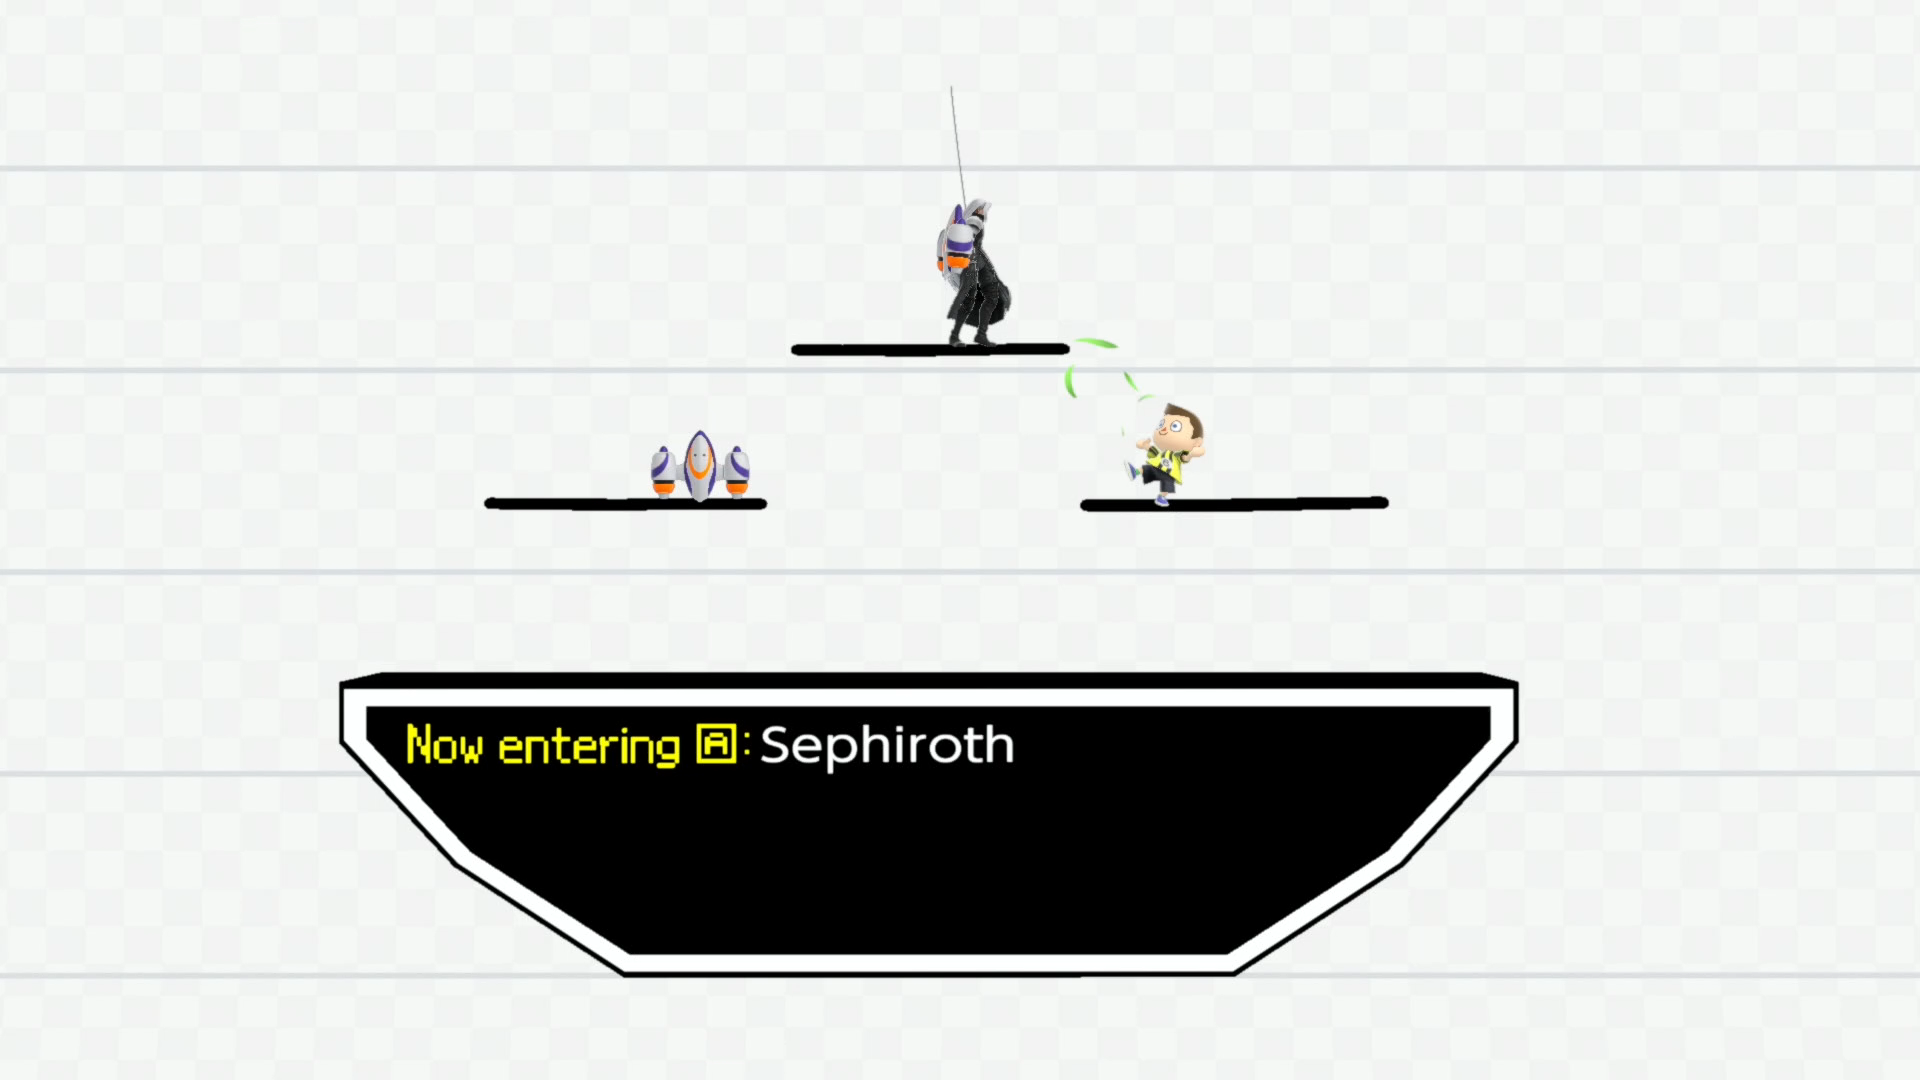
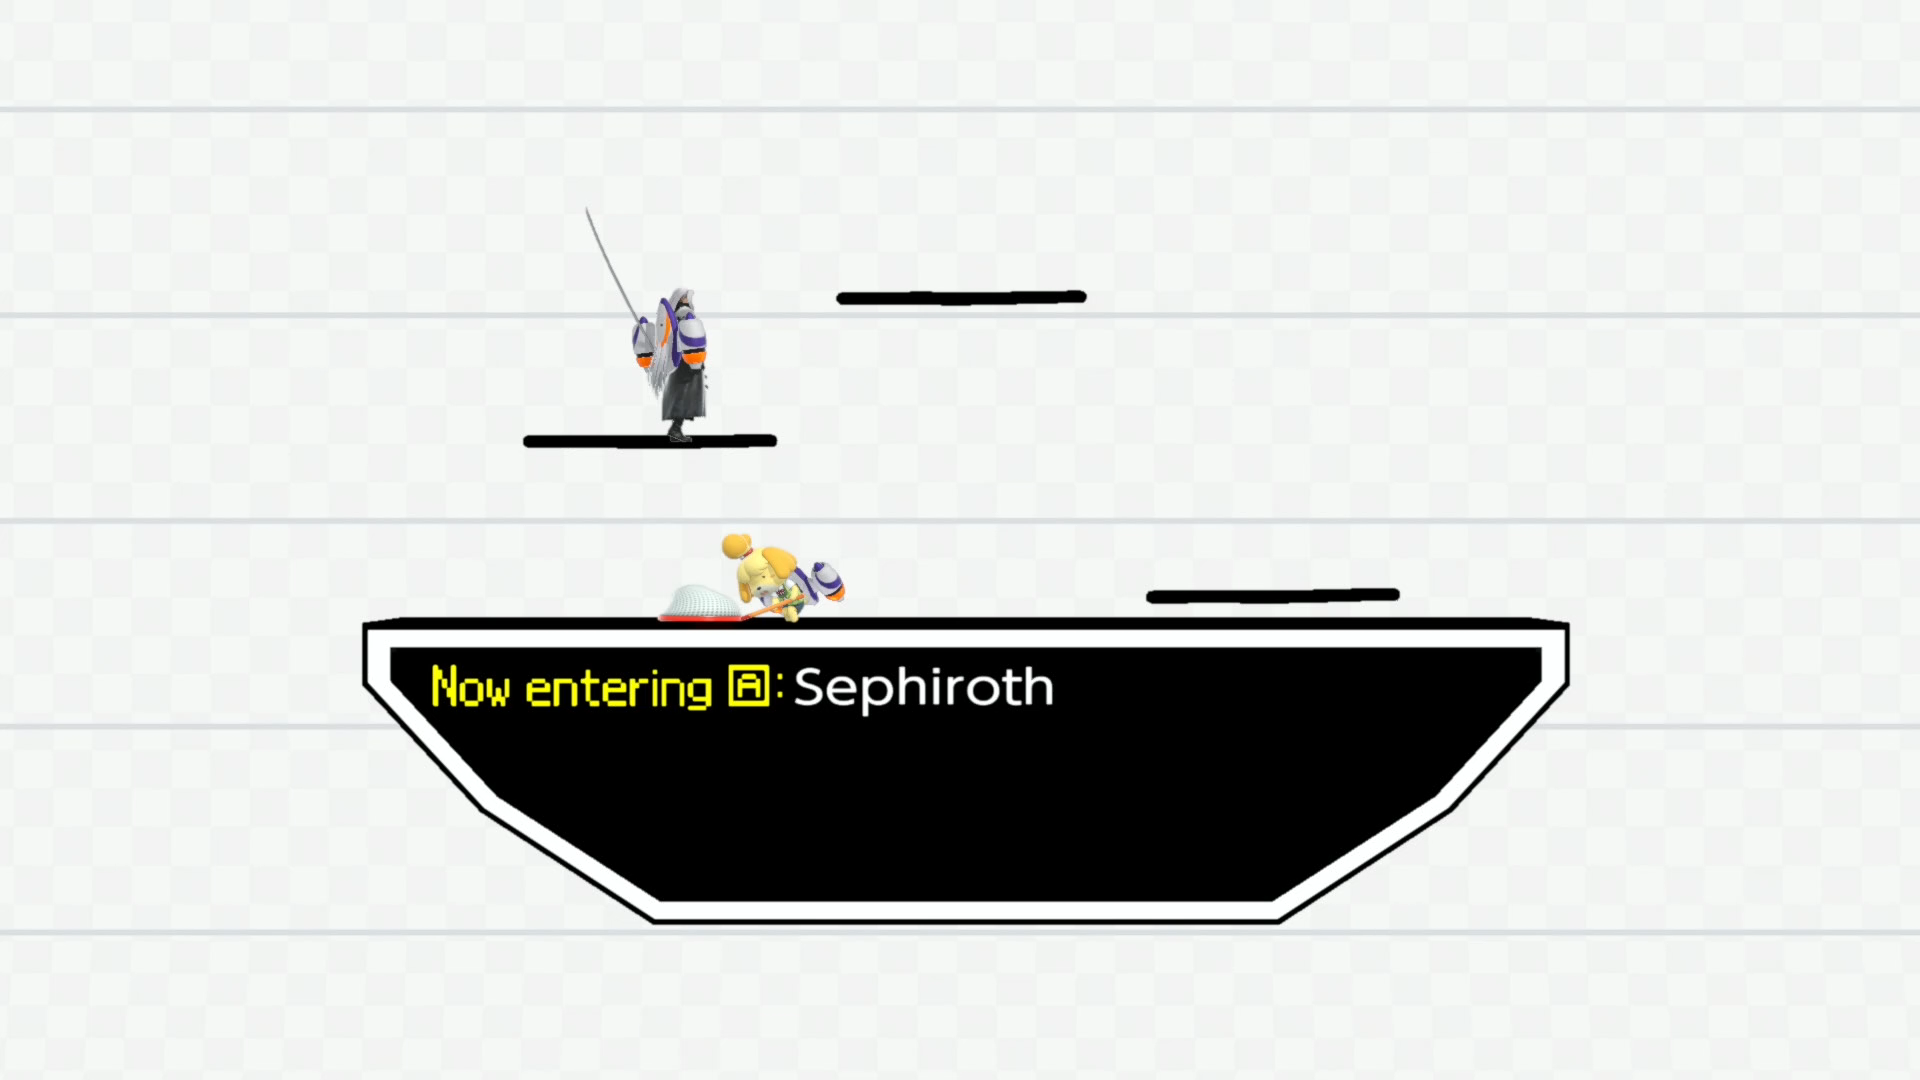
pictoinfo

diff --git a/pictochat.md b/pictochat.md
@@ -16,53 +16,67 @@ For the brave souls attempting to mod this stage: improper edits of numshb and n
 - I recommend not removing meshes, but instead either grey them out (use an HSV of 0,0,0.259993 for vertex colors) and put them somewhat behind the stage (z of -35) to still show that a current scene is active
 
 ### Stencil Animation
-It seems that uvSet controls when a vertex gets drawn in. The motion file simply uses Vector31's X coordinate to create the drawing effect. There is also an erasing animation, probably leave the material part of these motion files alone if possible? Not sure how to extend the duration of these animations.
+It seems that some combination of map1 and uvSet controls when a vertex gets drawn in. The motion file uses Vector31's X coordinate to create the drawing effect44. There is also an erasing animation, probably leave the material part of these motion files alone if possible? Not sure how to extend the duration of these animations.
 
-For uvSet, the further the UV coordinate is to the right, the later it gets drawn. Most vertices are to the right of the center.
+For map1, the further the UV coordinate is to the right, the later it gets drawn.
 
 
 ### Scene Control
 erase_wait controls when the scene ends<br/>
-Draw 1st wait SHOULD be for the first scene to start, but also controls every other scene start?!? <br/>
-Not sure what draw wait does...apparently nothing? Hmmmm...
+Draw 1st is the wait range for the first rotation <br/>
+The last draw is the wait range after the first cycle finishes. By cycle, I mean 20 scenes have been played, it resets. Ya it's...kinda weird...
 
 Stage scenes are in the order they appear in internal files. SNA: Should not attempt, probably make it another FD.
+
+### TODO:
+- [ ] SFX
+- [ ] UI
+- [ ] Disable Stars
+- [ ] Disable Flashlight?
+- [ ] Randall over Gusty Gus
+- [ ] Car Scene
+- [ ] Sparks Scene
+- [ ] Pipes
+- [ ] Figure out Sunset Collision
+- [ ] Staring Contest?
+- [ ] Disable Clock
+- [ ] Disable Pac Attack
 
 | # | Original | Notes | Change | New |
 | :-: |:---:|:----:|:---:|:---:|
 |1 | ![Noses](https://ssb.wiki.gallery/images/thumb/e/e4/Pictochat_2_Jellyfish.jpeg/175px-Pictochat_2_Jellyfish.jpeg)| `0x1ae8d0ec87` refers to their wander range | Platforms that move up and down and wander around | |
-|2 | ![Car](https://ssb.wiki.gallery/images/thumb/8/8b/PictoChat_2_Car.jpg/175px-PictoChat_2_Car.jpg)| Rigged hitbox, road shares model. `0x0e97f09501` could refer to spawns, `0x185e7df818` to something? | | |
-|3 | ![25M](https://ssb.wiki.gallery/images/thumb/6/6e/Pictochat_2_Donkey_Kong.jpeg/175px-Pictochat_2_Donkey_Kong.jpeg)| `0x22dfd9ae4b` could be barrel spawn time,  `0x134ab3b224` cam pos | (Sorry TNN, this gotta go) Warioware! | |
-|4 | ![Pac is Back](https://ssb.wiki.gallery/images/thumb/f/f6/Pictochat_2_PacPix.jpg/175px-Pictochat_2_PacPix.jpg)| `0x141ed28149` the speed of pac1 , `0x1422dfbe10` speed of other pacs  | The pac is (in the) baaaaaaack | |
+|2 | ![Car](https://ssb.wiki.gallery/images/thumb/8/8b/PictoChat_2_Car.jpg/175px-PictoChat_2_Car.jpg)| `0x0e97f09501` could refer to spawns, `0x185e7df818` to something? | | |
+|3 | ![25M](https://ssb.wiki.gallery/images/thumb/6/6e/Pictochat_2_Donkey_Kong.jpeg/175px-Pictochat_2_Donkey_Kong.jpeg)| `0x22dfd9ae4b` could be barrel spawn time,  `0x134ab3b224` cam pos | (Sorry TNN, this gotta go) Warioware! | <img src="assets/img/pictochat/dk.png" alt="newdk" width="175"/> |
+|4 | ![Pac is Back](https://ssb.wiki.gallery/images/thumb/f/f6/Pictochat_2_PacPix.jpg/175px-Pictochat_2_PacPix.jpg)| `0x141ed28149` the speed of pac1 , `0x1422dfbe10` speed of other pacs. 0x17329e7064 onward deal with pac coordinates. 0x170ffe59d4 is x 0x141ed28149 is y  | Hardcoded collision, cant do anything with this| |
 |5 | ![PaperPlanes](https://ssb.wiki.gallery/images/thumb/1/1f/PictoChat_2_Paper_Airplanes.jpeg/175px-PictoChat_2_Paper_Airplanes.jpeg)| Plane spawn order is randomized| Fountain of Dreams (except middle platform also rises) | <img src="assets/img/pictochat/plane.png" alt="newlift" width="175"/> |
 | | | | |
 | | | | |
 |6 | ![1-2](https://ssb.wiki.gallery/images/thumb/e/ed/PictoChat_2_Girders.jpeg/175px-PictoChat_2_Girders.jpeg)| | Remove center box because of Cave of Life | <img src="assets/img/pictochat/lift.png" alt="newlift" width="175"/> |
 |7 | ![Boots](https://ssb.wiki.gallery/images/thumb/0/06/PictoChat_2_Boots.jpeg/175px-PictoChat_2_Boots.jpeg)| Rigged hitbox and burybox. Motion handled internally? | hitboxes removed, not sure what to do with this | |
-|8 | ![Poles](https://ssb.wiki.gallery/images/thumb/1/14/PictoChat_2_Poles.jpeg/175px-PictoChat_2_Poles.jpeg)| | Remain the same |![NewPoles](https://ssb.wiki.gallery/images/thumb/1/14/PictoChat_2_Poles.jpeg/175px-PictoChat_2_Poles.jpeg) |
-|9 | ![Cloud](https://ssb.wiki.gallery/images/thumb/6/69/PictoChat_2_Clouds.jpeg/175px-PictoChat_2_Clouds.jpeg)| `0x1880339f33-0x18c216984e` cloud speed? | If we can move the cloud position that'd be nice | |
+|8 | ![Poles](https://ssb.wiki.gallery/images/thumb/1/14/PictoChat_2_Poles.jpeg/175px-PictoChat_2_Poles.jpeg)| `0x1b54f707a7 / 0x1a00b4c840` frame plats descend | Remain the same |![NewPoles](https://ssb.wiki.gallery/images/thumb/1/14/PictoChat_2_Poles.jpeg/175px-PictoChat_2_Poles.jpeg) |
+|9 | ![Cloud](https://ssb.wiki.gallery/images/thumb/6/69/PictoChat_2_Clouds.jpeg/175px-PictoChat_2_Clouds.jpeg)| `0x1880339f33-0x18c216984e` cloud speed | If we can move the cloud position that'd be nice | |
 |10 | ![Seesaw](https://ssb.wiki.gallery/images/thumb/2/20/PictoChat_2_Seesaw.jpeg/175px-PictoChat_2_Seesaw.jpeg)| | Lowkey keep the same | ![NewSeesaw](https://ssb.wiki.gallery/images/thumb/2/20/PictoChat_2_Seesaw.jpeg/175px-PictoChat_2_Seesaw.jpeg) |
 | | | | |
 | | | | |
 |11 | ![Sparks](https://ssb.wiki.gallery/images/thumb/f/f0/PictoChat_2_Sparks.jpeg/175px-PictoChat_2_Sparks.jpeg)| `0x0d16ab9468` determines boundaries. Rigged electric hitbox; plats share model | PM Green Hill? | |
 |12 | ![Faucet](https://ssb.wiki.gallery/images/thumb/1/15/Pictochat_2_Faucet.jpg/175px-Pictochat_2_Faucet.jpg)| Conveyor belt + LVD material change? | SNA | ![NewFaucet](https://ssb.wiki.gallery/images/thumb/1/15/Pictochat_2_Faucet.jpg/175px-Pictochat_2_Faucet.jpg) |
-|13 | ![Tornado](https://ssb.wiki.gallery/images/thumb/1/10/PictoChat_2_Tornado.jpeg/175px-PictoChat_2_Tornado.jpeg)| Windbox? `0x164b50cfc7 / 0x1735f08633` correlate to left and right tornado power | | |
+|13 | ![Tornado](https://ssb.wiki.gallery/images/thumb/1/10/PictoChat_2_Tornado.jpeg/175px-PictoChat_2_Tornado.jpeg)| Windbox? `0x164b50cfc7 / 0x1735f08633` correlate to left and right tornado power | Tornado greyed and inactive | |
 |14 | ![Gusty Gus](https://ssb.wiki.gallery/images/thumb/8/82/PictoChat_2_Gusty_Gus_2.jpeg/175px-PictoChat_2_Gusty_Gus_2.jpeg)| Windbox? `area_rect_info` | Randall? | |
-|15 | ![Staring Contest](https://ssb.wiki.gallery/images/thumb/9/92/PictoChat_2_Staring_Contest.jpeg/175px-PictoChat_2_Staring_Contest.jpeg)| `0x1f09a6de89`? | | |
+|15 | ![Staring Contest](https://ssb.wiki.gallery/images/thumb/9/92/PictoChat_2_Staring_Contest.jpeg/175px-PictoChat_2_Staring_Contest.jpeg)| `0x1f09a6de89`? | Oh man wtf | |
 | | | | |
 | | | | |
 |16 | ![Pipes](https://ssb.wiki.gallery/images/thumb/9/90/Pictochat_2_Pipes.jpg/175px-Pictochat_2_Pipes.jpg)| Each pipe has a skeleton attached to it. Could be used for something CRAZY... | Remove warp mechanic, make Town and City | |
 |17 | ![Road](https://ssb.wiki.gallery/images/thumb/e/e8/PictoChat_2_Road.jpg/175px-PictoChat_2_Road.jpg)| | Remove BG collision | ![NewRoad](https://ssb.wiki.gallery/images/thumb/e/e8/PictoChat_2_Road.jpg/175px-PictoChat_2_Road.jpg) |
-|18 | ![Dolphin](https://ssb.wiki.gallery/images/thumb/d/d9/Pictochat_2_Dolphins.jpeg/175px-Pictochat_2_Dolphins.jpeg)| Time delay likely tied to this. Position controlled via animation | | |
-|19 | ![Escalator](https://ssb.wiki.gallery/images/thumb/3/34/PictoChat_2_Elevator.jpeg/175px-PictoChat_2_Elevator.jpeg)| Conveyor Belt | SNA? If we could figure this out, this can be BF | |
+|18 | ![Dolphin](https://ssb.wiki.gallery/images/thumb/d/d9/Pictochat_2_Dolphins.jpeg/175px-Pictochat_2_Dolphins.jpeg)| Time delay likely tied to this. Position controlled via animation | Platforms come into the stage randomly | |
+|19 | ![Escalator](https://ssb.wiki.gallery/images/thumb/3/34/PictoChat_2_Elevator.jpeg/175px-PictoChat_2_Elevator.jpeg)| Conveyor Belt | BF | |
 |20 | ![Clock](https://ssb.wiki.gallery/images/thumb/4/4e/PictoChat_2_Clock.jpeg/175px-PictoChat_2_Clock.jpeg)| clock controls position of hands. Clock can spawn on the left or right. Might be controlled by bin files, same with rotation. `0x17c9f8dcb6` controls how long this lasts. `0x19b99af1fd` speed of drawing? | If we could only control where this spawns... | |
 | | | | |
 | | | | |
 |21 | ![Sunset](https://ssb.wiki.gallery/images/thumb/4/41/PictoChat_2_Sunset.jpeg/175px-PictoChat_2_Sunset.jpeg)| THERE'S NO COLLIDER IN THE LVD FILE FOR THE SUN?!?!? | | |
-|22 | ![Infinity](https://ssb.wiki.gallery/images/thumb/5/5a/PictoChat_2_Infinity.jpeg/175px-PictoChat_2_Infinity.jpeg)| Chooses a random set of platforms to be active | | |
+|22 | ![Infinity](https://ssb.wiki.gallery/images/thumb/5/5a/PictoChat_2_Infinity.jpeg/175px-PictoChat_2_Infinity.jpeg)| Chooses a random set of platforms to be active | Walls | <img src="assets/img/pictochat/infinity.png" alt="newinfinity" width="175"/> |
 |23 | ![Pen n Paper](https://ssb.wiki.gallery/images/thumb/6/6a/PictoChat_2_Script.jpeg/175px-PictoChat_2_Script.jpeg)| Writes one line, dabs ink, writes the next line. Lines appear in random? spots disappear eventually. `0x17646e65d2` should refer to this. | |![NewPen](https://ssb.wiki.gallery/images/thumb/6/6a/PictoChat_2_Script.jpeg/175px-PictoChat_2_Script.jpeg) |
 | | | | |
-|24 | background for the last 3 | There's no collision on these scenes either | | | | | |
-|25 | ![Shooting Stars](https://ssb.wiki.gallery/images/thumb/2/27/PictoChat_2_Shooting_Star.jpeg/175px-PictoChat_2_Shooting_Star.jpeg)| | | | |
-|26 | ![Moon](https://ssb.wiki.gallery/images/thumb/8/86/PictoChat_2_Moon.jpeg/175px-PictoChat_2_Moon.jpeg)| Remove final dark phase | | |
+|24 | background for the last 3 | There's no collision on these scenes either | This scene can also load on its own without any of the next 3 gimmicks | | | | |
+|25 | ![Shooting Stars](https://ssb.wiki.gallery/images/thumb/2/27/PictoChat_2_Shooting_Star.jpeg/175px-PictoChat_2_Shooting_Star.jpeg)| `0x1518a1ffbc` | | | |
+|26 | ![Moon](https://ssb.wiki.gallery/images/thumb/8/86/PictoChat_2_Moon.jpeg/175px-PictoChat_2_Moon.jpeg)| `0x186ce6a6ec` scene length. `0x1f0bc8f27d` has some influence on blackout effect |Remove final dark phase | |
 |27 | ![Flashlight](https://ssb.wiki.gallery/images/thumb/b/b3/PictoChat_2_Policeman.jpeg/175px-PictoChat_2_Policeman.jpeg)| | | | |
